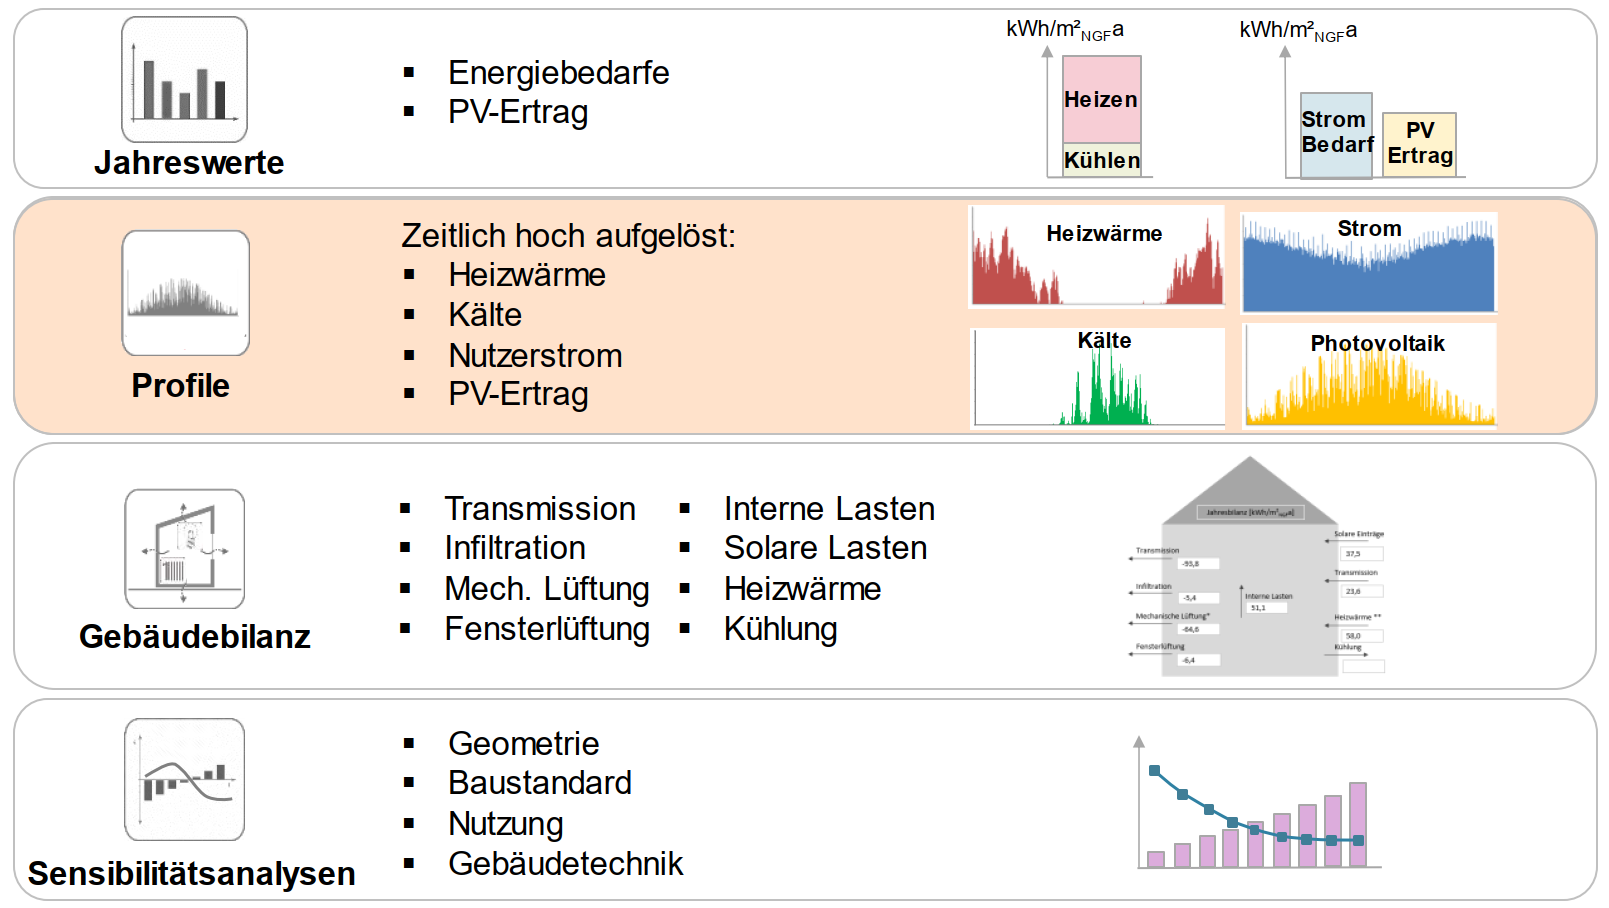
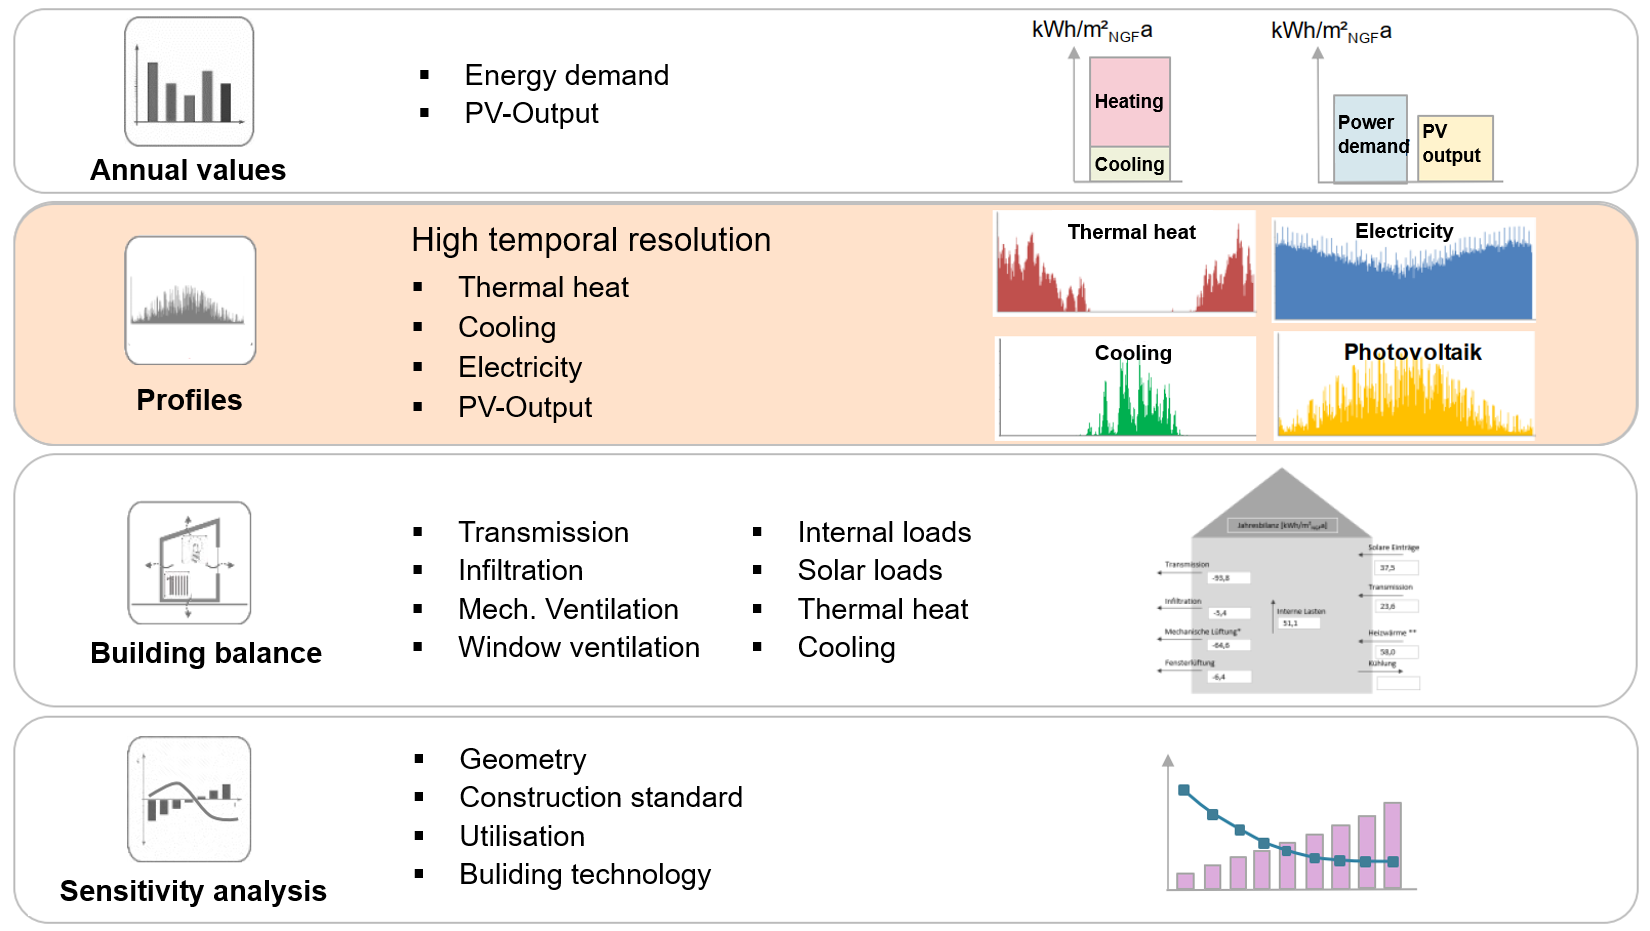
finished chapter 1, added chapter 3

diff --git a/docs/gensim_user_manual.md b/docs/gensim_user_manual.md
@@ -6,21 +6,20 @@ The software was developed for use in the context of project pre-planning where 
 
 The input and output of the software is based on *Microsoft Excel®*. The computing core, based on *OpenStudio®*[^1] and *EnergyPlus®*, is connected to the Excel interface via Visual Basic for Applications® - see following figure. 
 
-[^1]: OpenStudio® provides a development environment for the individual use of EnergyPlus® in software applications.  
+[^1]: OpenStudio® provides a development environment for customised use of EnergyPlus® in software applications. 
 
 ![simplified software structure](fig\231023_simplified_software_structure.PNG)
 
-The basis is formed by a standardized (generic) building model, which has all the essential levels of freedom or basic functions in order to be able to represent any type of building. These basic functions (see following figure) can be adjusted by a few simple parameters. Details on the individual basic functions and their parameters will follow in chapter 3. 
-An exception is the possibility besides the generic geometry generation (cubic building) to create the geometry model individually using the OpenStudio SketchUp plugin and then import it into GenSim. 
+The basis is a standardised (generic) building model that has all the essential levels of freedom or basic functions in order to be able to represent any type of building. These basic functions (see figure below) can be adjusted by a few simple parameters. Details of the individual basic functions and their parameters are given in chapter 3. 
+An exception is the possibility besides the generic geometry generation (cubic building) to create a custom geometry model using the OpenStudio SketchUp plugin and then import it into GenSim. 
 
 ![basic functions of the standardized building model](fig\231023_basic_functions_building_model.PNG)
 
-The main result of GenSim are temporally high-resolution profiles in units of  \(Wh/m²_{NRF}\). Within the building simulation no distribution or transfer losses are represented. Therefore all results have t be evaluated as net energies. Distribution losses must be imprinted in the aftermath itself for example in the form of an offset. 
+The main output of GenSim is high-resolution profiles in units of  \(Wh/m²_{NRF}\). Within the building simulation no distribution or transfer losses are represented. Therefore all results must be evaluated as net energy. Distribution losses must be imprinted in the aftermath itself for example in the form of an offset. 
 
-In addition to the output profiles GenSim offers various annual values, an overview of the building balance and the possibility of sensitivity analyses (see following figure). 
+In addition to the output profiles GenSim provides various annual values, an overview of the building balance and the ability to perform of sensitivity analyses (see  figure below). 
 
-GRAFIK EINFÜGEN
-
+![overview of the output sizes](fig\231023_overview.PNG)
 
 
 
@@ -31,10 +30,50 @@ GRAFIK EINFÜGEN
 ## **3  Model functions and parameters**
 ###3.1 Location
 
-Starting the modeling on the homepage of the GenSim Excel interface with the selection of the location.
+The modelling process starts on the homepage of the GenSim Excel interface with the selection of the location.
 
 
 ![selection of the weather data in Excel](fig\231023_selection_weather_data.png)
 
-For the 25 largest german cities corresponding EnergyPlus weather datasets[^2] were generated using the current DWD test reference years (TRY 2015/2045). 
+Corresponding *EnergyPlus®* weather datasets[^2] have been generated for the 25 largest German cities using the current DWD test reference years (TRY 2015/2045). Both the current TRY2015[^3] and the future scenario TRY2045[^4] have been stored in order to be able to consider the climatic requirements for heating, air conditioning and ventilation systems over a longer period of operation. The required weather data set can be selected from a drop down list. 
+
 [^2]: File format "epw" - EnergyPlus weather data
+[^3]: Reference period 1995 to 2012
+[^4]: Forecast period 2031 to 2060
+
+**Store and simulate custom weather data sets**
+In general any *EnergyPlus®* weather data set can be stored by the user and selected for the simulation with GenSim. A complete weather data set always consists of an epw-file and a ddy-file, which must be stored under the same file name in the subfolder "weather" in the GenSim file path. The refresh button can be used to update the selection in the drop down list.
+Ready-to-use weather datasets (epw + ddy) for worldwide locations can be downloaded free of charge from the following websites: 
+
+[https://energyplus.net/weather](https://energyplus.net/weather)    
+[http://climate.onebuilding.org/](http://climate.onebuilding.org/) 
+
+
+Furthermore the TRY of the DWD can be used to generate location-specific weather data sets for the whole of Germany which can then be converted into valid EnergyPlus weather data sets using the EnergyPlus Weather Converter. For this purpose, a separate and more detailed instruction can be found in the following folder path:
+
+*Verweis auf interne Dokumente*
+
+
+###3.2 Building geometry
+
+The building geometry can be defined in two ways. Either a generic cubic geometry model can be parameterised, or the geometry can be individually created and imported. The choice between these two options is made using a drop down menu (see the following figure). Both options are described below. 
+
+![selection of the method for geometry generation in the Excel® GUI](fig\231023_selection_method.png)
+
+Basically the *EnergyPlus®* geometry model is illustrated with its external dimensions but no component thicknesses or volumes (e.g. wall or ceiling thicknesses) are represented. As a result the entire Gross Floor Area (BGF) or Gross Room Volume (BRF) is simulated as the volume to be conditioned. The inaccuracy resulting from this simplification is negligible in any case given the low level of model detail. The net room area (NRF) is used to convert the results into area-specific quantities. This means that the absolute results of the simulation are related to a typical NRF corresponding to the simulated BGF.
+
+####3.2.1 Generic building model
+
+The generic geometry model is a cubic building (see figure) defined by the parameters "length", "width", " height", "number of stores" and "window area proportions"[^5] (see figure). An idealised floor plan is used which divides each floor into 4 external zones and one internal zone (see figure). 
+
+After the simulation it is possible to view the generic geometry model in *SketchUp®* using the *OpenStudio®* SketchUp plug-ins. The model file is located in 
+"/Output/run" directory under the name "in.osm".
+[^5]: Ratio of transparent to opaque outer surface 
+
+![generic geometry model](fig\231023_generic_geometric_model.png)
+
+![generic geometry model - floor plan](fig\231023_generic_model.png)
+
+**Measurements**
+
+*Content coming soon*

diff --git a/docs/abbreviations_list.md b/docs/abbreviations_list.md
@@ -8,6 +8,8 @@
 | BA           | Battery (electrical)                                                        |
 | BB           | Biomass Boiler                                                              |
 | BETS         | Borehole Thermal Energy Storage                                             |
+| BGF          | Gross floor area (GFA)                                                      |
+| BRF          | Gross Room Volume                                                           |
 | BIM          | Building Information Modeling                                               |
 | BMWK         | German Federal Ministry for Economic Affairs and Climate Action             |
 | C-rate       | Charging rate (of storage)                                                  |
@@ -25,6 +27,7 @@
 | GB           | Gas Boiler                                                                  |
 | GCV          | Gross Calorific Value, also known as Higher Heating Value (HHV)             |
 | GenSim       | Generic Building Simulation [simulation tool]                               |
+| GR          | Gross floor area (german BGF)                                                |
 | HC           | Hydrogen Compressor                                                         |
 | HEL          | Hydrogen Electrolyser                                                       |
 | HHV          | Higher Heating Value, also known as Gross Calorific Value (GCV)             |
@@ -44,7 +47,7 @@
 | QuaSi        | Quarter Simulation [project name]                                           |
 | REPL         | Read-Eval-Print Loop of Julia                                               |
 | ReSiE        | Computational Engine for the Simulation of Energy Systems [simulation tool] |
-| NRF          | Net useful Building Area (n.b.ar.)                                          |
+| NRF          | Net useful building Area (n.b.ar.)                                          |
 | SAM          | System Advisor Model                                                        |
 | SCC          | Simple Compression Chiller                                                  |
 | SCOP         | Seasonal Coefficient of Performance                                         |
